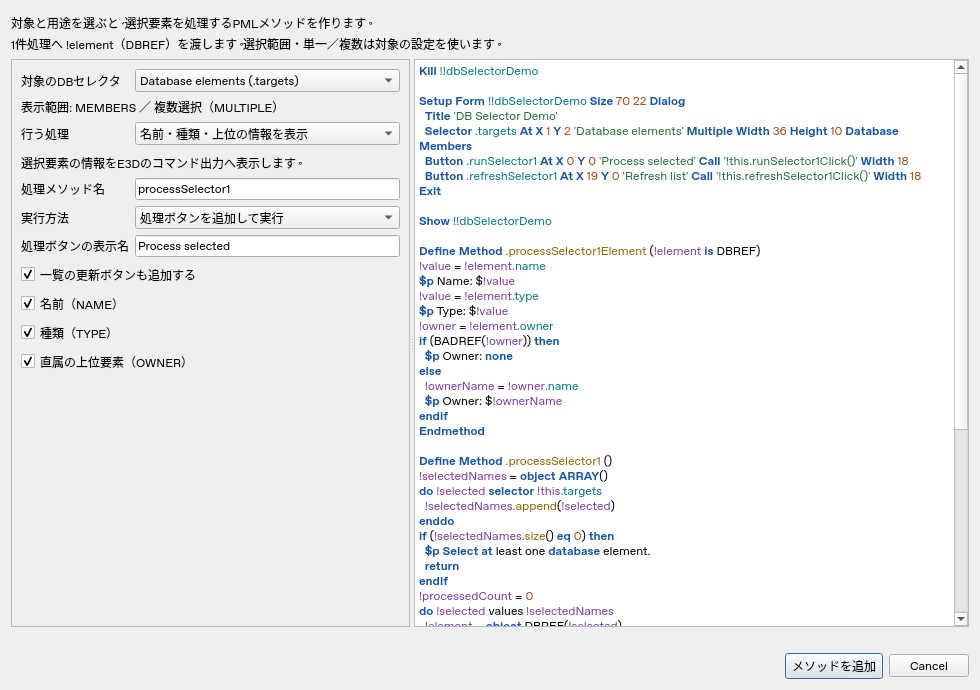
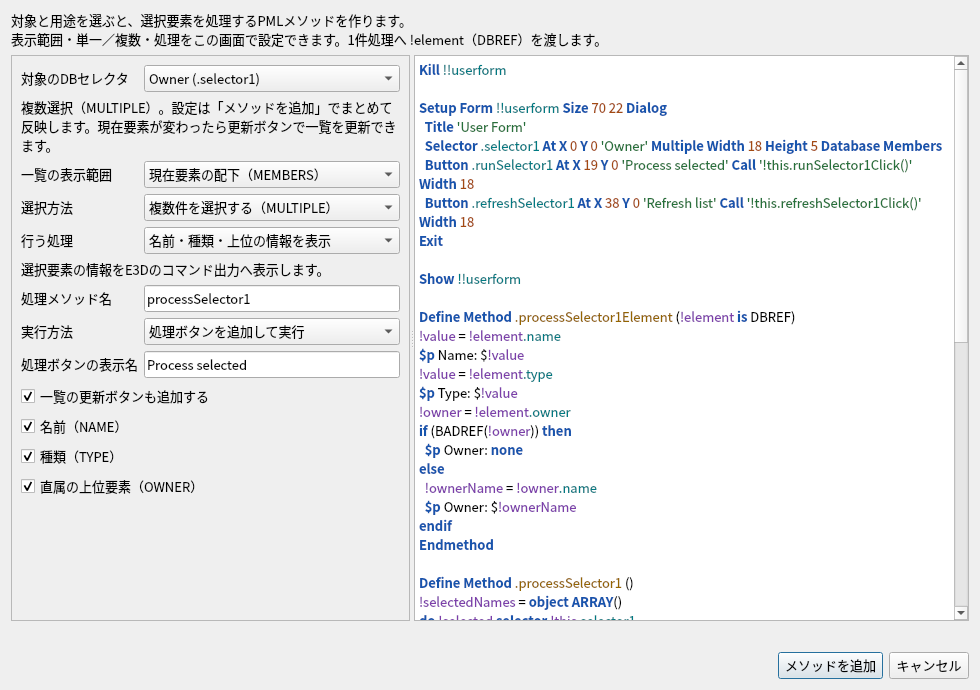
Simplify container inputs and configure selector scope in one dialog

diff --git a/e3d_designer/selector_method_dialog.py b/e3d_designer/selector_method_dialog.py
@@ -20,7 +20,7 @@ class SelectorMethodDialog(QDialog):
         self.resize(980, 690)
         layout = QVBoxLayout(self)
         note = QLabel('対象と用途を選ぶと、選択要素を処理するPMLメソッドを作ります。\n'
-                      '1件処理へ !element（DBREF）を渡します。選択範囲・単一／複数は対象の設定を使います。')
+                      '表示範囲・単一／複数・処理をこの画面で設定できます。1件処理へ !element（DBREF）を渡します。')
         note.setWordWrap(True); layout.addWidget(note)
         splitter = QSplitter(); layout.addWidget(splitter, 1)
         panel = QWidget(); self.fields = QFormLayout(panel)
@@ -35,6 +35,15 @@ class SelectorMethodDialog(QDialog):
         if selected is not None and self.target.findData(selected) >= 0:
             self.target.setCurrentIndex(self.target.findData(selected))
         self.target_info = QLabel(); self.target_info.setWordWrap(True); self.fields.addRow(self.target_info)
+        self.database = QComboBox()
+        for title, value in (('現在要素の上位（OWNERS）', 'OWNERS'), ('現在要素の配下（MEMBERS）', 'MEMBERS'),
+                             ('CE変更に合わせて自動更新（AUTO）', 'AUTO')):
+            self.database.addItem(title, value)
+        self.fields.addRow('一覧の表示範囲', self.database)
+        self.selection_mode = QComboBox()
+        self.selection_mode.addItem('1件だけ選択する（SINGLE）', 'SINGLE')
+        self.selection_mode.addItem('複数件を選択する（MULTIPLE）', 'MULTIPLE')
+        self.fields.addRow('選択方法', self.selection_mode)
         self.recipe = QComboBox()
         for key, title, _ in RECIPES: self.recipe.addItem(title, key)
         self.fields.addRow('行う処理', self.recipe)
@@ -58,8 +67,11 @@ class SelectorMethodDialog(QDialog):
         self.error = QLabel(); self.error.setWordWrap(True); self.error.setStyleSheet('color: #b42318'); layout.addWidget(self.error)
         buttons = QDialogButtonBox(QDialogButtonBox.Ok | QDialogButtonBox.Cancel)
         buttons.button(QDialogButtonBox.Ok).setText('メソッドを追加')
+        buttons.button(QDialogButtonBox.Cancel).setText('キャンセル')
         buttons.accepted.connect(self.accept); buttons.rejected.connect(self.reject); layout.addWidget(buttons)
         self.target.currentIndexChanged.connect(self.select_target)
+        self.database.currentIndexChanged.connect(self.select_database)
+        self.selection_mode.currentIndexChanged.connect(self.update_fields)
         self.recipe.currentIndexChanged.connect(self.update_fields)
         self.trigger.currentIndexChanged.connect(self.update_fields)
         for editor in (self.method_name, self.button_label): editor.textChanged.connect(self.update_preview)
@@ -67,7 +79,7 @@ class SelectorMethodDialog(QDialog):
         for editor in (self.refresh, self.report_name, self.report_type, self.report_owner, self.replace_existing):
             editor.toggled.connect(self.update_preview)
         self.select_target()
-        self.loading = False; self.update_fields()
+        self.loading = False; self.select_database()
 
     def select_target(self, *_):
         previous = self.loading; self.loading = True
@@ -76,14 +88,27 @@ class SelectorMethodDialog(QDialog):
         index = self.target.currentData()
         if index is not None:
             gadget = self.form.gadgets[index]
+            self.database.setCurrentIndex(self.database.findData(gadget.database))
+            self.selection_mode.setCurrentIndex(self.selection_mode.findData('MULTIPLE' if gadget.selection_mode=='MULTI' else gadget.selection_mode))
             self.target_info.setText('表示範囲: '+gadget.database+' ／ '+
                 ('単一選択（SINGLE）' if gadget.selection_mode == 'SINGLE' else '複数選択（MULTIPLE）'))
         else: self.target_info.setText('先に「その他 → DBセレクタ」で部品を追加してください。')
         self.loading = previous
-        if not self.loading: self.update_fields()
+        if not self.loading: self.select_database()
+
+    def select_database(self, *_):
+        if self.loading: return
+        automatic = self.database.currentData() == 'AUTO'
+        self.selection_mode.model().item(self.selection_mode.findData('MULTIPLE')).setEnabled(not automatic)
+        if automatic: self.selection_mode.setCurrentIndex(self.selection_mode.findData('SINGLE'))
+        self.update_fields()
 
     def update_fields(self, *_):
         if self.loading: return
+        mode = '単一選択（SINGLE）' if self.selection_mode.currentData()=='SINGLE' else '複数選択（MULTIPLE）'
+        self.target_info.setText(mode+'。設定は「メソッドを追加」でまとめて反映します。'+
+            ('AUTOは現在要素が変わると一覧を更新し、単一選択で使用します。' if self.database.currentData()=='AUTO' else
+             '現在要素が変わったら更新ボタンで一覧を更新できます。'))
         kind = self.recipe.currentData()
         self.description.setText(next(note for key, _, note in RECIPES if key == kind))
         button = self.trigger.currentData() == 'BUTTON'
@@ -101,7 +126,8 @@ class SelectorMethodDialog(QDialog):
             trigger=self.trigger.currentData(), button_label=self.button_label.text(), refresh=self.refresh.isChecked(),
             report_name=self.report_name.isChecked(), report_type=self.report_type.isChecked(),
             report_owner=self.report_owner.isChecked(), custom_body=self.custom_body.toPlainText(),
-            replace_existing=self.replace_existing.isChecked())
+            replace_existing=self.replace_existing.isChecked(), database=self.database.currentData(),
+            selection_mode=self.selection_mode.currentData())
 
     def update_preview(self, *_):
         if self.loading: return

diff --git a/e3d_designer/net_component_dialog.py b/e3d_designer/net_component_dialog.py
@@ -38,6 +38,8 @@ class NetComponentWizard(QDialog):
         self.width = QDoubleSpinBox(); self.width.setRange(1, 300); self.width.setValue(36)
         self.height = QDoubleSpinBox(); self.height.setRange(1, 300); self.height.setValue(9)
         fields.addRow('幅（文字単位）', self.width); fields.addRow('高さ（行単位）', self.height)
+        self.advanced = QCheckBox('接続先・初期化の詳細を変更する')
+        fields.addRow(self.advanced)
         self.assembly = QLineEdit(); fields.addRow('DLL／アセンブリ名', self.assembly)
         self.namespace = QLineEdit(); fields.addRow('名前空間', self.namespace)
         self.control_type = QLineEdit(); fields.addRow('コントロール型', self.control_type)
@@ -65,8 +67,10 @@ class NetComponentWizard(QDialog):
         layout.addWidget(self.error)
         buttons = QDialogButtonBox(QDialogButtonBox.Ok | QDialogButtonBox.Cancel)
         buttons.button(QDialogButtonBox.Ok).setText('フォームへ追加')
+        buttons.button(QDialogButtonBox.Cancel).setText('キャンセル')
         buttons.accepted.connect(self.accept); buttons.rejected.connect(self.reject); layout.addWidget(buttons)
         self.recipe.currentIndexChanged.connect(self.select_recipe)
+        self.advanced.toggled.connect(self.update_details)
         for editor in (self.name, self.label, self.assembly, self.namespace, self.control_type,
                        self.directory, self.seed, self.file_filter): editor.textChanged.connect(self.update_preview)
         for editor in (self.headings, self.rows, self.setup_code): editor.textChanged.connect(self.update_preview)
@@ -88,16 +92,28 @@ class NetComponentWizard(QDialog):
         for editor, value in zip((self.assembly, self.namespace, self.control_type),
                                  DEFAULT_CONNECTIONS.get(kind, ('', '', ''))): editor.setText(value)
         container = kind in CONTAINERS
+        self.advanced.setChecked(kind in ('flexible', 'dimension', 'custom'))
         self.width.setValue(36 if container else 18); self.height.setValue(9 if container else 1)
         self.setup_code.clear()
         self.fields.setRowVisible(self.height, container)
-        for editor in (self.assembly, self.namespace, self.control_type, self.connection_note, self.setup_code):
-            self.fields.setRowVisible(editor, container)
         for editor in (self.data_source, self.headings, self.rows, self.single): self.fields.setRowVisible(editor, kind == 'grid')
         for editor in (self.mode, self.directory, self.seed, self.file_filter): self.fields.setRowVisible(editor, kind == 'file')
         self.loading = False
+        self.update_details()
         self.select_data_source()
         self.update_preview()
+
+    def update_details(self, *_):
+        kind = self.recipe.currentData(); container = kind in CONTAINERS
+        external = kind in ('flexible', 'dimension', 'custom')
+        detailed = container and (external or self.advanced.isChecked())
+        self.fields.setRowVisible(self.advanced, container and not external)
+        for editor in (self.assembly, self.namespace, self.control_type, self.setup_code):
+            self.fields.setRowVisible(editor, detailed)
+        self.fields.setRowVisible(self.connection_note, container)
+        self.connection_note.setText(
+            'E3D側の部品に合わせて変更できます。DLL名は拡張子なし、または読込可能なパスを指定します。'
+            if detailed else '接続情報は入力済みです。DLLや初期化処理を変更する場合は、詳細設定を開いてください。')
 
     def select_data_source(self, *_):
         manual = self.recipe.currentData() == 'grid' and self.data_source.currentData() == 'ROWS'

diff --git a/tests/test_net_components.py b/tests/test_net_components.py
@@ -160,6 +160,34 @@ class NetWizardTests(unittest.TestCase):
         self.assertIn('Sample-1',d.preview.toPlainText())
         d.close()
 
+    def test_standard_container_requires_only_basic_inputs_and_retains_advanced_edits(self):
+        d=NetComponentWizard(self.w,self.w.form);d.show()
+        self.assertTrue(d.assembly.isHidden());self.assertTrue(d.namespace.isHidden())
+        self.assertTrue(d.control_type.isHidden());self.assertTrue(d.setup_code.isHidden())
+        self.assertFalse(d.advanced.isHidden());self.assertEqual(d.error.text(),'')
+        d.label.setText('結果一覧');d.headings.setPlainText('名前\n種類')
+        d.rows.setPlainText('PUMP-1\tEQUI\nPIPE-1\tPIPE');d.single.setChecked(True)
+        d.advanced.setChecked(True);self.assertFalse(d.assembly.isHidden())
+        d.setup_code.setPlainText('!this.netGrid1Control.RefreshTable()')
+        d.advanced.setChecked(False);self.assertTrue(d.setup_code.isHidden())
+        d.accept();g=d.result_gadget
+        self.assertEqual(g.label,'結果一覧');self.assertEqual(g.assembly,'GridControl')
+        self.assertIn('SingleRowSelection(TRUE)',g.net_setup)
+        self.assertIn('RefreshTable()',g.net_setup)
+        self.assertTrue(self.w.insert_net_component(g));d.close()
+
+    def test_external_container_always_exposes_required_connection_fields(self):
+        d=NetComponentWizard(self.w,self.w.form);d.show()
+        for recipe in ('flexible','dimension','custom'):
+            d.recipe.setCurrentIndex(d.recipe.findData(recipe))
+            self.assertTrue(d.advanced.isHidden());self.assertFalse(d.assembly.isHidden())
+            self.assertFalse(d.namespace.isHidden());self.assertFalse(d.control_type.isHidden())
+            if recipe!='dimension':
+                d.accept();self.assertIsNone(d.result_gadget);self.assertIn('DLL名',d.error.text())
+            d.assembly.setText('Vendor');d.namespace.setText('Vendor.Controls');d.control_type.setText('PmlControl')
+            self.assertEqual(d.error.text(),'')
+        d.close()
+
     def test_real_menu_dialog_and_initialization_editor(self):
         w=self.w
         def create():

diff --git a/tests/test_selector_methods.py b/tests/test_selector_methods.py
@@ -233,5 +233,31 @@ class SelectorWizardTests(unittest.TestCase):
         d.method_name.setText('bad name');d.accept();self.assertIsNone(d.result_form)
         self.assertEqual(w.history,[]);d.close()
 
+    def test_range_selection_and_processing_are_applied_together_in_one_dialog(self):
+        w=self.w;before=w.form.dumps()
+        d=SelectorMethodDialog(w,w.form,0)
+        d.database.setCurrentIndex(d.database.findData('OWNERS'))
+        d.selection_mode.setCurrentIndex(d.selection_mode.findData('SINGLE'))
+        d.recipe.setCurrentIndex(d.recipe.findData('navigate'))
+        self.assertEqual(d.error.text(),'');self.assertEqual(w.form.dumps(),before)
+        self.assertIn('Database Owners',d.preview.toPlainText())
+        d.accept();g=d.result_form.gadgets[0]
+        self.assertEqual((g.database,g.selection_mode),('OWNERS','SINGLE'))
+        self.assertIn('!!CE = !element',d.result_form.extra_methods[1].body)
+        self.assertEqual(w.form.dumps(),before);d.close()
+
+    def test_auto_enforces_single_selection_and_cancel_keeps_original_configuration(self):
+        original=selector_form();before=original.dumps()
+        d=SelectorMethodDialog(self.w,original,0)
+        d.database.setCurrentIndex(d.database.findData('AUTO'))
+        self.assertEqual(d.selection_mode.currentData(),'SINGLE')
+        self.assertFalse(d.selection_mode.model().item(d.selection_mode.findData('MULTIPLE')).isEnabled())
+        self.assertEqual(d.error.text(),'');self.assertIn('Database Auto',d.preview.toPlainText())
+        d.database.setCurrentIndex(d.database.findData('MEMBERS'))
+        self.assertTrue(d.selection_mode.model().item(d.selection_mode.findData('MULTIPLE')).isEnabled())
+        d.selection_mode.setCurrentIndex(d.selection_mode.findData('MULTIPLE'))
+        self.assertEqual(d.error.text(),'');d.reject()
+        self.assertEqual(original.dumps(),before);self.assertIsNone(d.result_form);d.close()
+
 
 if __name__=='__main__':unittest.main()

diff --git a/e3d_designer/selector_methods.py b/e3d_designer/selector_methods.py
@@ -35,6 +35,8 @@ class SelectorMethodSpec:
     report_owner: bool = False
     custom_body: str = ''
     replace_existing: bool = False
+    database: str | None = None
+    selection_mode: str | None = None
 
     def build(self, form, selector_index):
         """Return a new form; errors never mutate the input or its history."""
@@ -46,8 +48,10 @@ class SelectorMethodSpec:
         if form.program_mode == 'SOURCE':
             raise ValueError('「取り込みコード」で表示プログラムを自動生成へ変更してから追加してください。')
         draft = copy.deepcopy(form)
-        draft.pml()
         selector = draft.gadgets[selector_index]
+        if self.database is not None: selector.database = self.database
+        if self.selection_mode is not None: selector.selection_mode = self.selection_mode
+        draft.pml()
         if self.recipe not in {key for key, _, _ in RECIPES} or self.trigger not in ('BUTTON', 'SELECTION'):
             raise ValueError('処理または実行方法が不正です。')
         if not IDENTIFIER.fullmatch(self.method_name):

diff --git a/e3d_designer/app.py b/e3d_designer/app.py
@@ -969,7 +969,7 @@ class Window(QMainWindow):
         self.view_code.setPlaceholderText('LIMITS AUTO など。VIEW の外枠・EXIT は不要')
         self.prop_layout.addRow('VIEW 内の追加 PML', self.view_code)
         self.view_code.textChanged.connect(self.update_gadget)
-        self.container_hint = QLabel('外部 DLL が必要です。未設定時は DEFAULT で Control を接続してください。')
+        self.container_hint = QLabel('簡単な作成は「その他 → .NET部品を簡単作成」から用途を選んでください。接続先のDLLはE3D側に必要です。')
         self.container_hint.setWordWrap(True); self.prop_layout.addRow(self.container_hint)
         self.net_setup_button=QPushButton('NET初期化コードを編集…')
         self.net_setup_button.clicked.connect(self.edit_net_setup)

diff --git a/docs/simple-input-check.md b/docs/simple-input-check.md
@@ -1,0 +1,30 @@
+# ツールバー・コンテナ・DBセレクタの入力確認
+
+実際の作成画面を操作し、3種類を同じフォームへ追加して確認しました。
+標準の用途は選択と基本項目の入力で設定でき、PMLやDLL名を手入力する必要はありません。
+任意の処理・専用の.NET部品には、その処理や接続情報が必要です。
+
+| 部品 | 基本の設定 | 確認結果 |
+| --- | --- | --- |
+| ツールバー | 形式、ボタンの表示名・処理・幅、並び順 | 3段階の案内で追加可能。CEナビの3ボタンはサンプルを選ぶだけで生成。 |
+| コンテナの標準表 | 用途、表示名、大きさ、表のデータ元、単一／複数行選択 | 接続情報は入力済み。CEの配下をデータ元にすると列・行コードの入力も不要。 |
+| DBセレクタ | 一覧の範囲、単一／複数選択、処理の種類と表示する情報 | 同じ作成画面で設定可能。日本語の選択肢を表示し、AUTOでは単一選択へ切り替える。 |
+
+コンテナの接続先を変更する場合は「接続先・初期化の詳細を変更する」を開きます。
+専用・自作の.NET部品では、DLL名・名前空間・コントロール型などを指定します。
+ツールバーのカスタム処理はPMLの本文、外部マクロはファイルのパスが必要です。
+DBセレクタの独自処理は1件処理の本文を入力します。
+
+確認では、実際のメニューからDBセレクタ・標準表・CEナビのボタン列を追加し、8部品を配置しました。
+JSONをファイルへ保存して再読込し、MACの再読込と4回のUndo／Redoでも設定と処理を保持しました。
+キャンセル時に入力前のフォームを変更しないことも確認しています。
+
+- [ツールバーの入力画面](current-ui/toolbar-builder-buttons.png)
+- [コンテナの基本設定](current-ui/container-simple-input.png)
+- [DBセレクタの入力画面](current-ui/db-selector-method-wizard.png)
+- [3種類を追加したフォーム](current-ui/simple-input-all-components.png)
+
+FormDesignerの入力・生成・保存を確認した結果です。E3D 4.0実機での実行は未確認です。
+標準TOOLBARはメニューバーを持つモジュール用で、リボンへの登録は含みません。
+
+詳細: [ツールバー](toolbar-builder.md)／[コンテナを含む.NET部品](net-components.md)／[DBセレクタ](db-selector-methods.md)

diff --git a/docs/db-selector-methods.md b/docs/db-selector-methods.md
@@ -6,11 +6,17 @@ FormDesigner内ではDB処理を実行せず、E3D用のコードを生成しま
 ## 操作
 
 1. 「その他 → DBセレクタ」でセレクタを追加します。
-2. 部品プロパティの「内容」で、DATABASEとSINGLE／MULTIPLEを設定します。
-3. 「動作」の「DBセレクタのメソッドを簡単作成…」を押します。
+2. 「動作」の「DBセレクタのメソッドを簡単作成…」を押します。
    「編集」または「その他」メニューからも開けます。
-4. 対象と処理の種類を選び、右側の生成コードを確認します。
-5. 「メソッドを追加」を押します。追加先に空きがない場合は、大きさを調整してください。
+3. 対象、一覧の表示範囲、単一／複数の選択方法、処理の種類を同じ画面で設定します。
+4. 右側の生成コードを確認します。
+5. 「メソッドを追加」を押します。表示範囲・選択方式・メソッドをまとめて反映します。
+   追加先に空きがない場合は、大きさを調整してください。
+
+表示範囲は「現在要素の上位（OWNERS）」「現在要素の配下（MEMBERS）」
+「CE変更に合わせて自動更新（AUTO）」から選びます。
+AUTOでは単一選択に切り替え、複数選択を選べないようにします。
+キャンセルした場合は、対象の設定も変更しません。
 
 パレットは16個・8列×2行のままです。
 メソッド、実行用ボタン、更新ボタンは1回のUndoで取り消せます。
@@ -74,7 +80,7 @@ q var !owner
 ## E3Dでの確認
 
 E3D 4.0向けの作成支援です。コード生成・保存・コピーを検証し、E3D実機での実行は未確認です。
-表示範囲は既存セレクタの設定を使用します。AUTOとMULTIPLEは公式仕様上併用できません。
+表示範囲は対象の設定を初期値とし、作成画面内で変更できます。AUTOとMULTIPLEは公式仕様上併用できません。
 更新ボタンはその時点のCEを基準に一覧を更新します。
 名前・種類の表示ではDB属性を変更しません。カスタム処理の実際の動作は入力したPMLによります。
 

diff --git a/docs/audit-2026-10-11-selector-toolbar.md b/docs/audit-2026-10-11-selector-toolbar.md
@@ -21,6 +21,15 @@
 - AUTOの複数選択は互換表記MULTIでも拒否することを確認。変更したDBセレクタ・パレットのテストも再実行。
 - git diff --check成功。
 
+## 入力の確認と改善
+
+- ツールバーは形式・表示名・処理・幅を案内に沿って設定できることを確認。
+- DBセレクタの表示範囲と単一／複数選択を、メソッド作成画面内へ追加。日本語の選択肢で設定でき、キャンセル時は既存設定を変更しない。AUTOでは単一選択に切り替える。
+- コンテナの標準表では入力済みのDLL接続を詳細設定へ移し、用途・表示名・寸法・データ元だけで追加可能にした。専用・自作部品は必要な接続欄を常に表示。
+- 関連66件のテスト成功。標準表の基本入力と詳細設定の保持、専用部品の必須入力、DBセレクタ設定の同時反映とキャンセルを追加確認。
+- 実際のメニューから3種類のダイアログを操作し、コードを手入力せず同じフォームに8部品を作成。JSONのファイル保存・再読込、MAC再読込、4回のUndo／Redoを確認。
+- 入力改善後の全88テストファイル・1057件成功（139.7秒）。
+
 ## 実行範囲
 
 検証対象はFormDesignerの画面・モデル・PML生成と保存です。

diff --git a/docs/current-ui/README.md b/docs/current-ui/README.md
@@ -6,10 +6,14 @@
 - [作成したボタン列](toolbar-builder-result.png)
 - [DBセレクタのメソッド作成](db-selector-method-wizard.png)
 - [DBセレクタと処理・更新ボタン](db-selector-methods.png)
+- [コンテナの基本設定](container-simple-input.png)
+- [3種類を同じフォームへ追加した結果](simple-input-all-components.png)
 
 ツールバーは3段階の案内付きです。通常フォームのボタン列とMAIN用TOOLBARを選べます。
 CE情報・直属の上位への移動・配下一覧のサンプルを用意しています。
 DBセレクタは情報表示・CE移動・My Data登録・1件処理のメソッドを生成します。
+表示範囲と単一／複数選択も同じ画面で設定できます。
+コンテナの標準表は接続情報を入力済みとし、DLLなどの詳細設定を必要なときだけ開けます。
 各画面はQtの実際の描画で、E3D実機の画面ではありません。
 既存の部品パレットは16個・8列×2行を保ち、最上段はメニューバーです。
 キャンバス上部のコード・プレビューボタンは削除済みです。

diff --git a/docs/net-components.md b/docs/net-components.md
@@ -5,6 +5,11 @@
 選択中の通常フレーム、表示中のタブ、またはフォームの空き領域に配置します。
 上部のボタン群は16個・2行のままです。追加とコード生成は1回のUndoで戻せます。
 
+表の標準接続情報は入力済みです。最初は用途・表示名・大きさ・データ元だけ設定できます。
+DLLや初期化処理を変更する場合は「接続先・初期化の詳細を変更する」を開きます。
+詳細を閉じても入力した設定は保持します。
+専用・自作部品では必要な接続欄を常に表示します。
+
 ## 作成できるもの
 
 | 種類 | 設定から作る内容 | E3D側で必要なもの |
